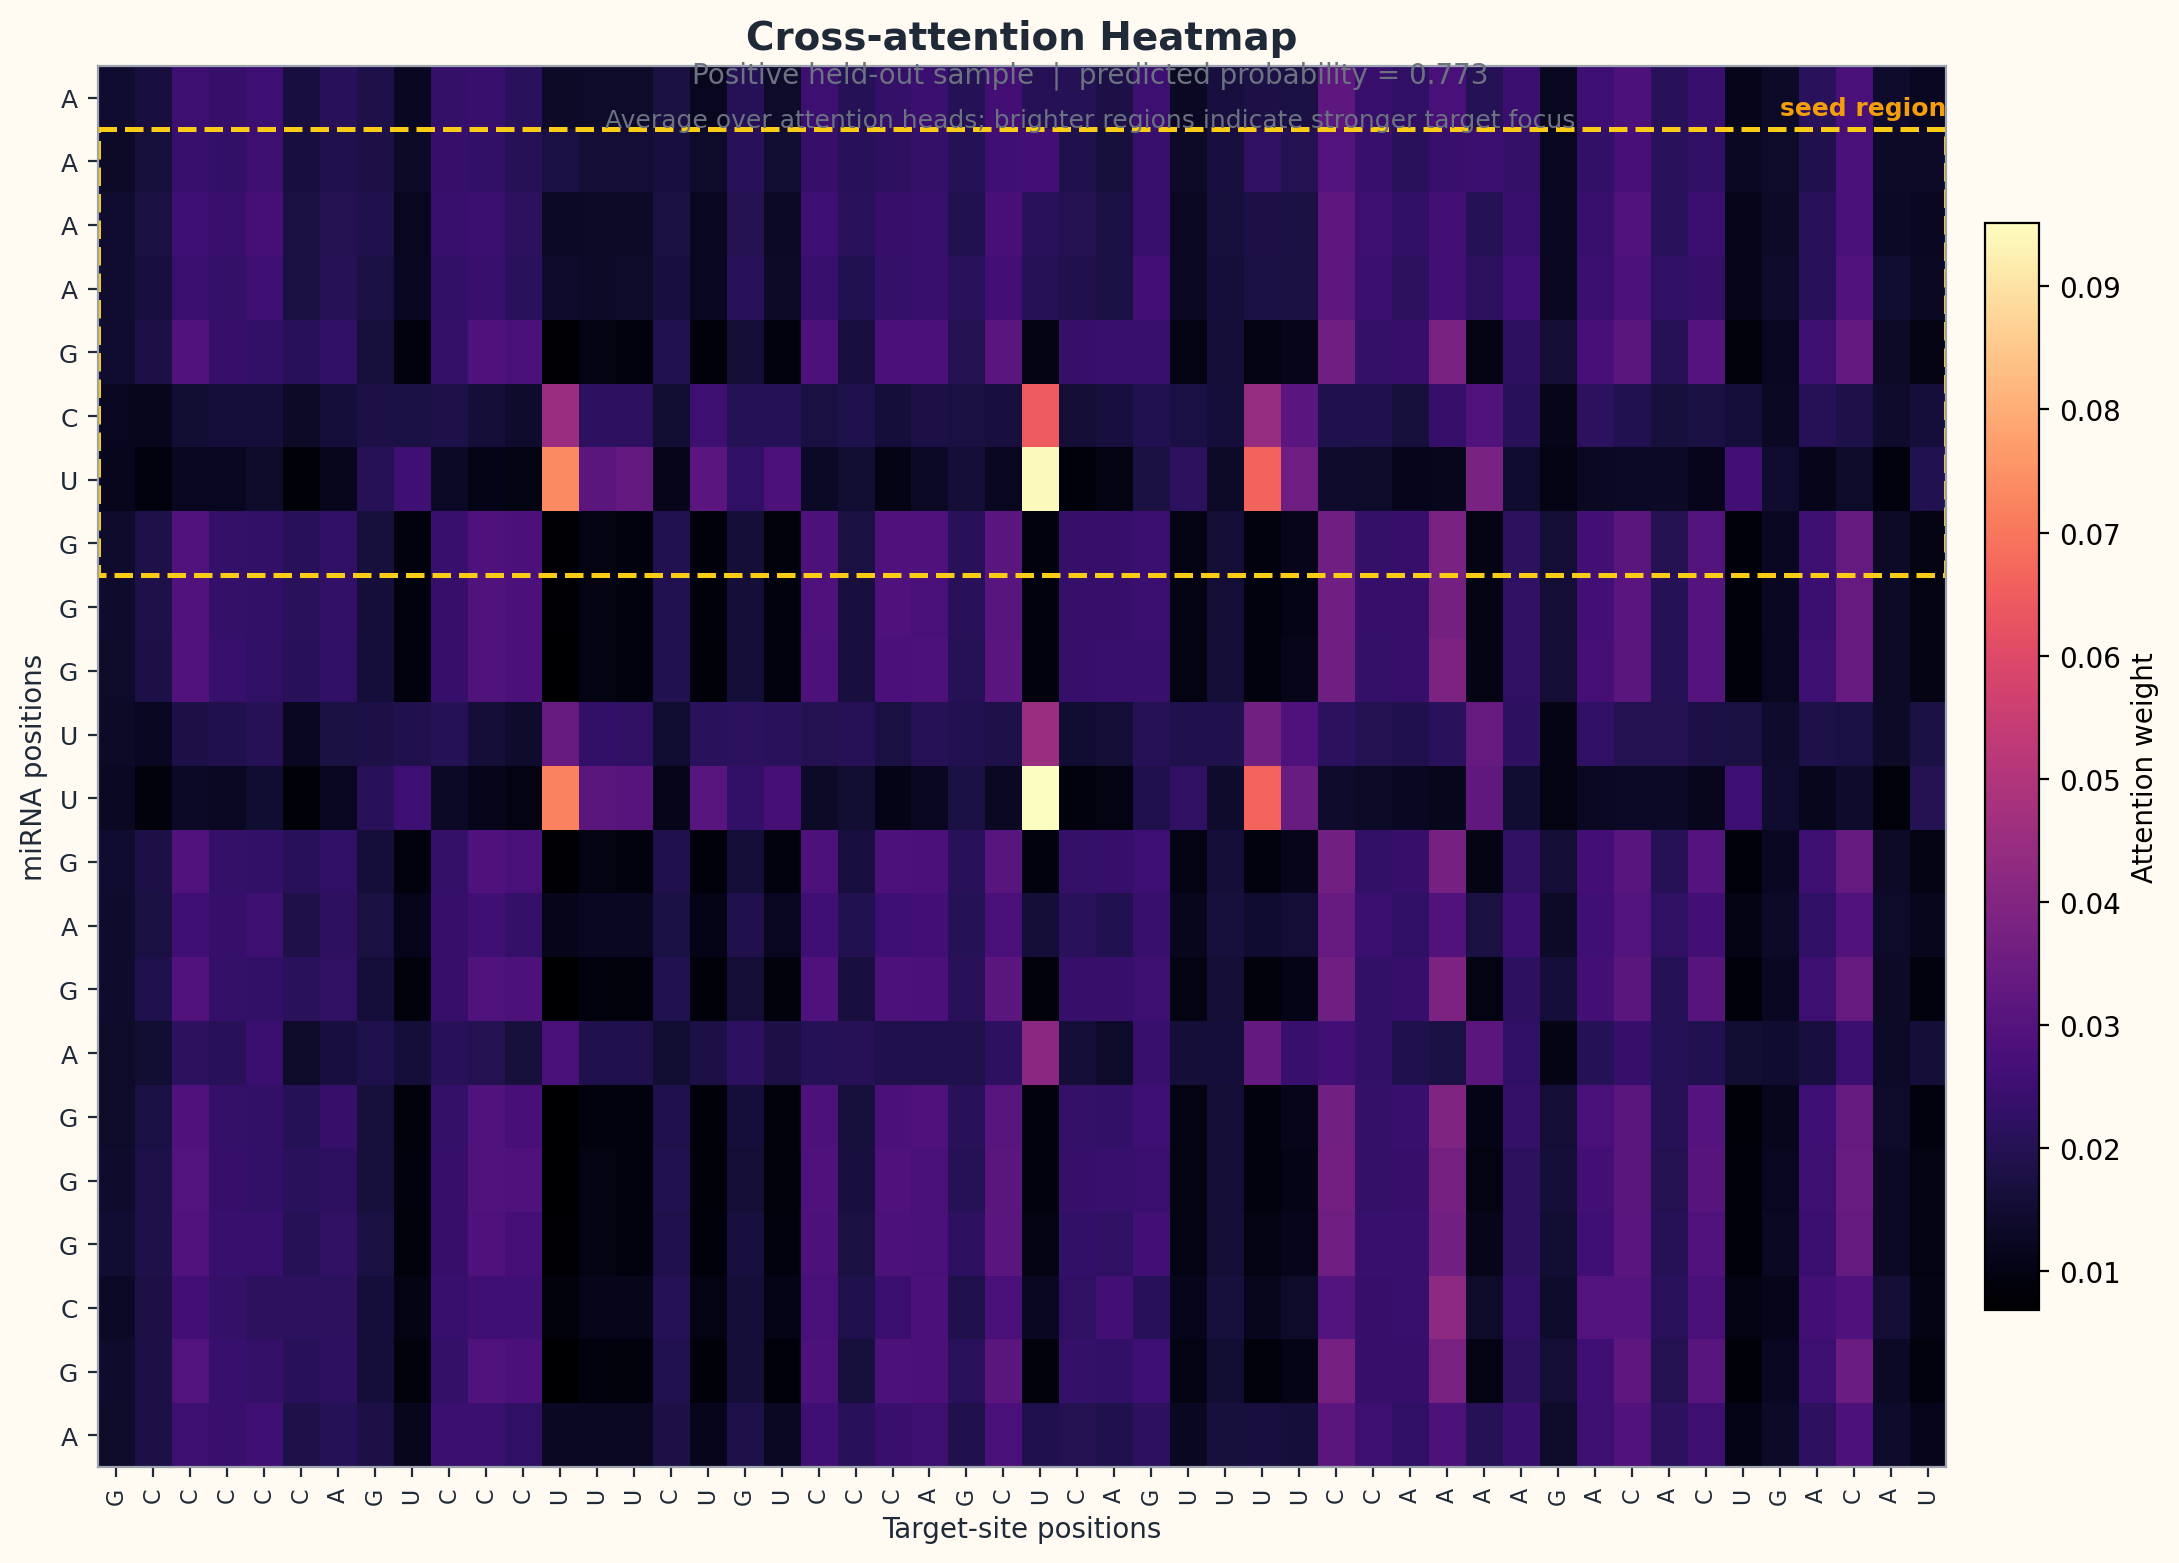
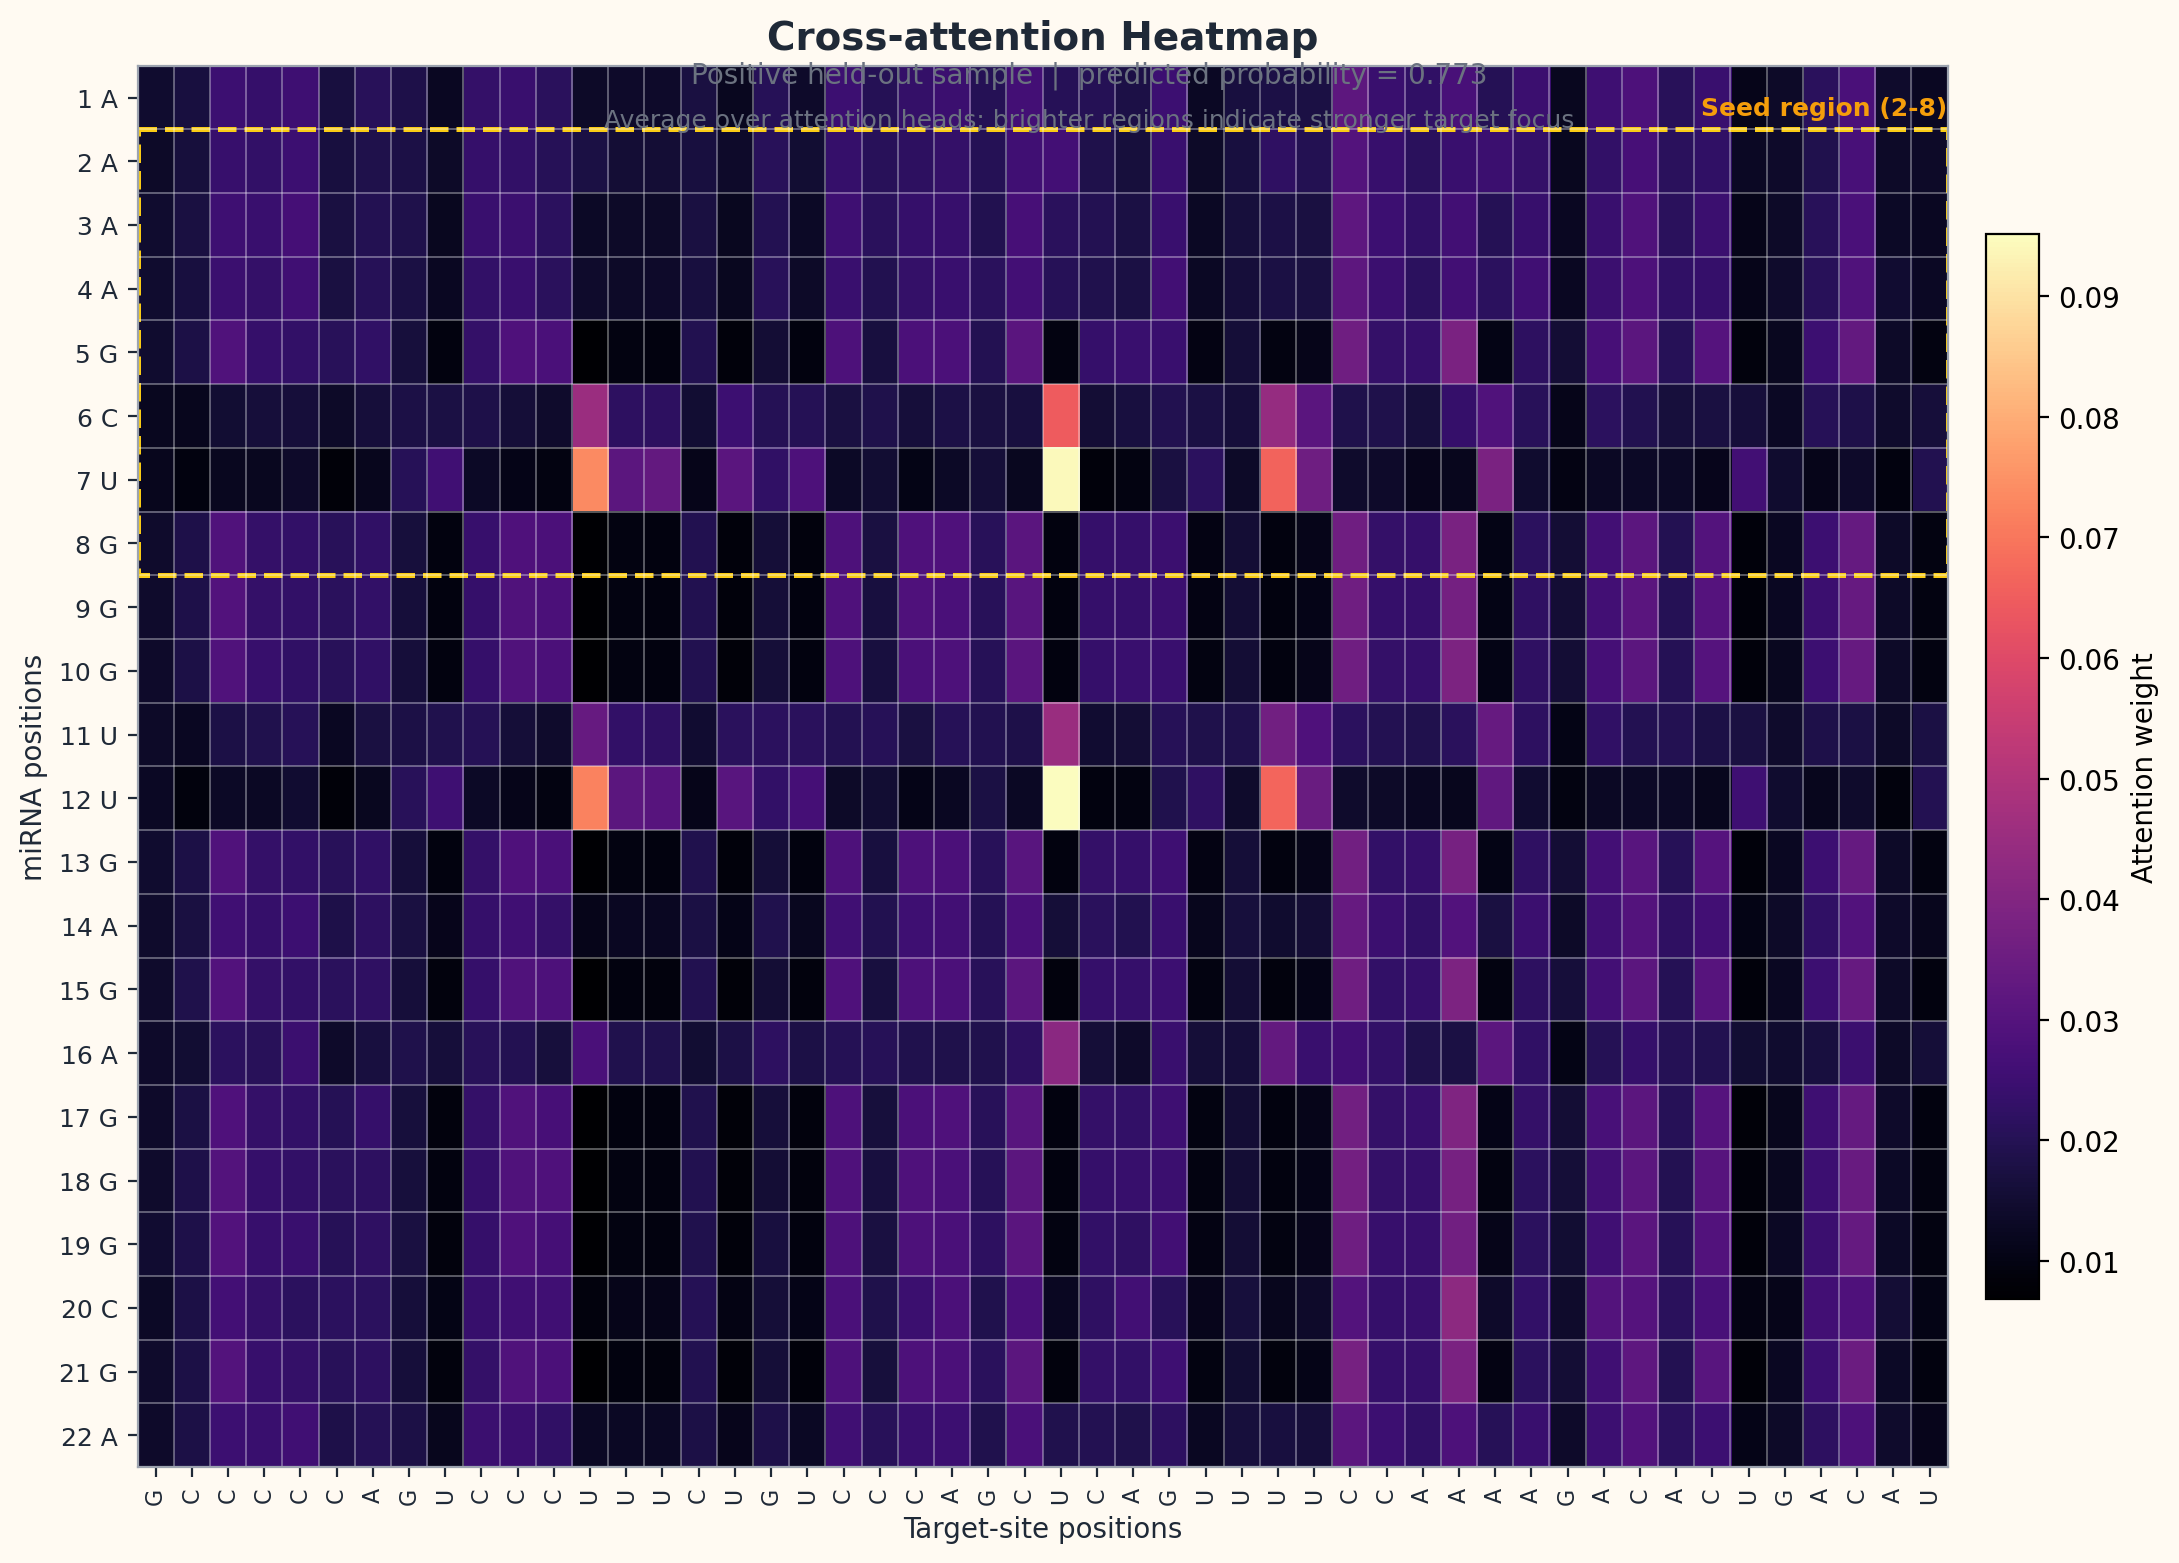
Polish README and refresh final demo figures

diff --git a/scripts/make_attention_figure.py b/scripts/make_attention_figure.py
@@ -3,6 +3,7 @@ import sys
 from pathlib import Path
 
 import matplotlib.pyplot as plt
+import numpy as np
 import pandas as pd
 import torch
 from matplotlib.patches import Rectangle
@@ -94,21 +95,25 @@ def plot_attention(
     ax.set_xticks(range(target_len))
     ax.set_xticklabels(list(target_seq), fontsize=8, color=TEXT)
     ax.set_yticks(range(mirna_len))
-    ax.set_yticklabels(list(mirna_seq), fontsize=9, color=TEXT)
+    ax.set_yticklabels([f"{idx + 1} {base}" for idx, base in enumerate(mirna_seq)], fontsize=9, color=TEXT)
     ax.tick_params(axis="x", colors=TEXT)
     ax.tick_params(axis="y", colors=TEXT)
+    ax.set_xticks(np.arange(-0.5, target_len, 1), minor=True)
+    ax.set_yticks(np.arange(-0.5, mirna_len, 1), minor=True)
+    ax.grid(which="minor", color="#f8fafc", linestyle="-", linewidth=0.55, alpha=0.45)
+    ax.tick_params(which="minor", bottom=False, left=False)
     for spine in ax.spines.values():
         spine.set_color("#9ca3af")
     plt.setp(ax.get_xticklabels(), rotation=90)
 
-    seed_start = 1
-    seed_end = min(8, mirna_len)
-    if seed_end > seed_start:
+    seed_start_idx = 1
+    seed_end_idx = min(7, mirna_len - 1)
+    if seed_end_idx >= seed_start_idx:
         ax.add_patch(
             Rectangle(
-                (-0.5, seed_start - 0.5),
+                (-0.5, seed_start_idx - 0.5),
                 target_len,
-                seed_end - seed_start,
+                seed_end_idx - seed_start_idx + 1,
                 fill=False,
                 edgecolor="#facc15",
                 linewidth=1.8,
@@ -117,8 +122,8 @@ def plot_attention(
         )
         ax.text(
             target_len - 0.5,
-            seed_start - 0.65,
-            "seed region",
+            seed_start_idx - 0.65,
+            f"Seed region ({seed_start_idx + 1}-{seed_end_idx + 1})",
             ha="right",
             va="bottom",
             fontsize=9,

diff --git a/scripts/make_figures.py b/scripts/make_figures.py
@@ -83,6 +83,7 @@ def style_axes(ax: plt.Axes) -> None:
 def plot_training_curves(history_df: pd.DataFrame, output_path: Path) -> None:
     best_epoch = int(history_df.loc[history_df["val_auprc"].idxmax(), "epoch"])
     best_val_auprc = float(history_df["val_auprc"].max())
+    epoch_ticks = history_df["epoch"].astype(int).tolist()
 
     fig, axes = plt.subplots(1, 2, figsize=(13, 5.2))
     fig.patch.set_facecolor(BACKGROUND)
@@ -112,6 +113,7 @@ def plot_training_curves(history_df: pd.DataFrame, output_path: Path) -> None:
     axes[0].set_title("Loss During Training", fontsize=13, fontweight="bold")
     axes[0].set_xlabel("Epoch")
     axes[0].set_ylabel("Loss")
+    axes[0].set_xticks(epoch_ticks)
     axes[0].legend(frameon=False, loc="upper right")
 
     axes[1].plot(
@@ -151,6 +153,7 @@ def plot_training_curves(history_df: pd.DataFrame, output_path: Path) -> None:
     axes[1].set_title("AUPRC During Training", fontsize=13, fontweight="bold")
     axes[1].set_xlabel("Epoch")
     axes[1].set_ylabel("AUPRC")
+    axes[1].set_xticks(epoch_ticks)
     axes[1].legend(frameon=False, loc="lower right")
 
     fig.suptitle(
